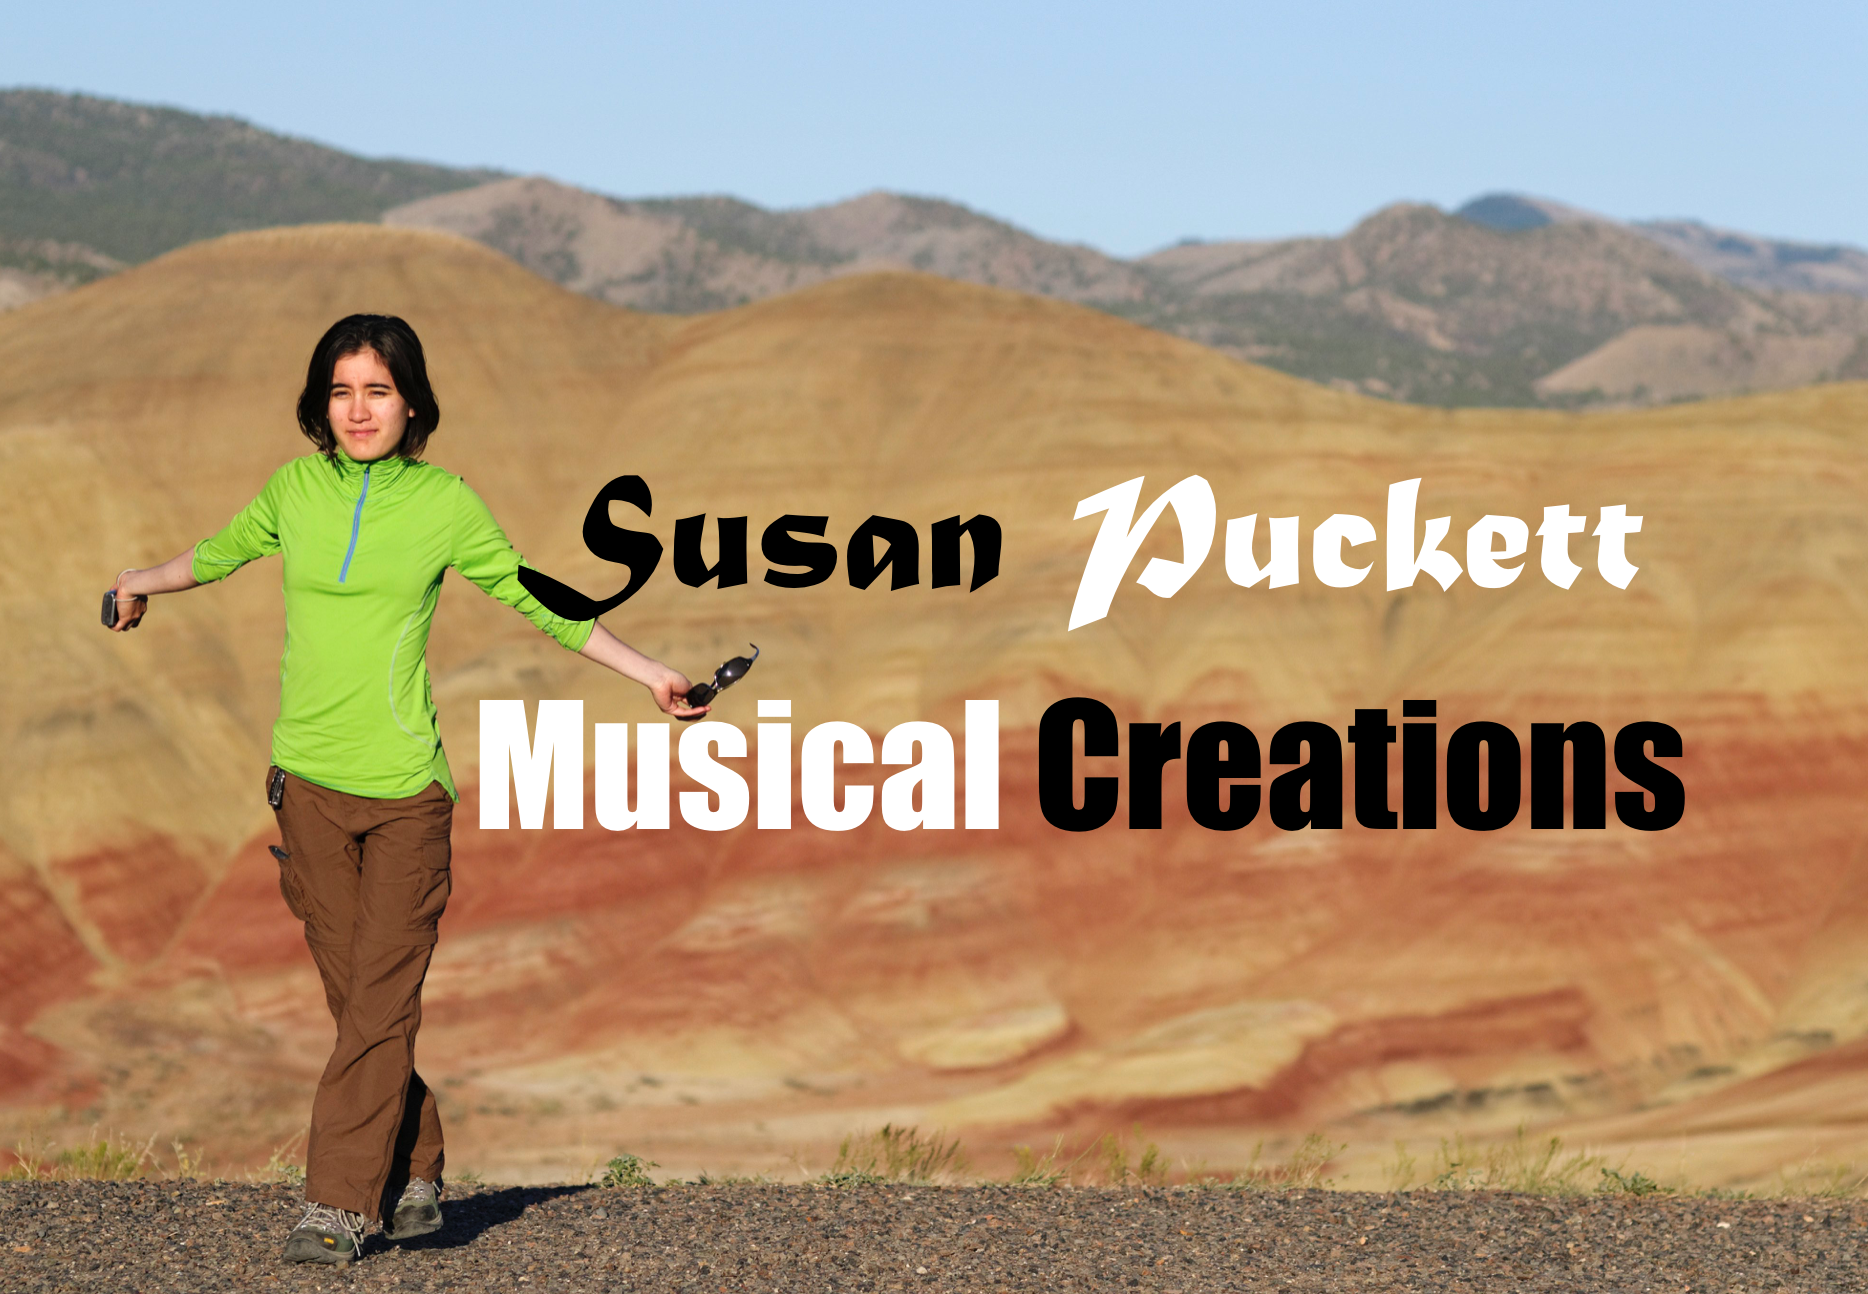
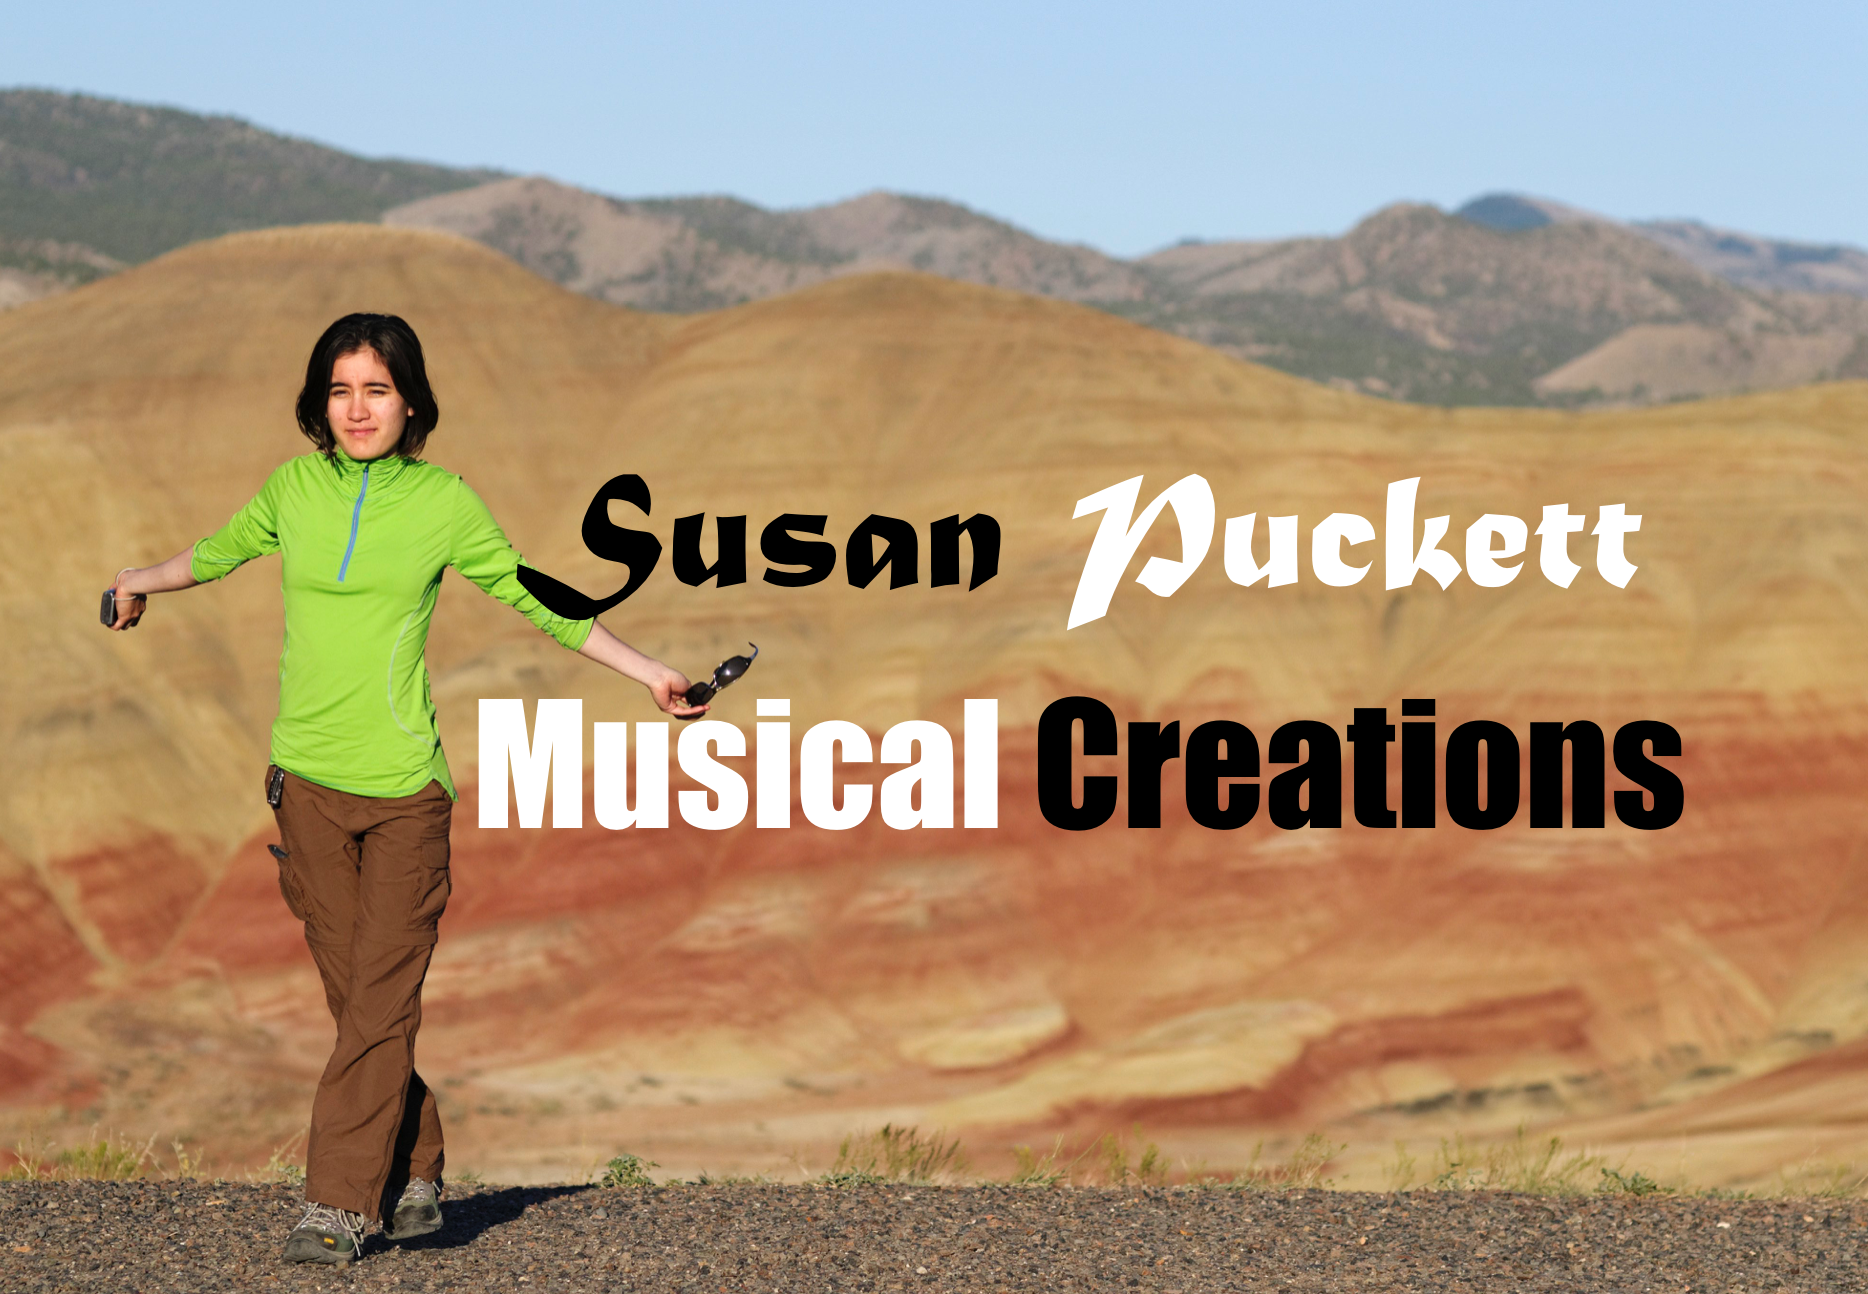
redid title image

diff --git a/clarinet.html b/clarinet.html
@@ -45,7 +45,7 @@
 				  </nav>
 			</header>
 			<body>
-			<img src=title.png width=100% alt="Susan Puckett Musical Creations">
+			<img src=titleSmall.png width=100% alt="Susan Puckett Musical Creations">
             <br><br>
 			<div class="container" style="text-align: left;">
 				<iframe src="https://audiomack.com/embed/playlist/susan-puckett/clarinet" scrolling="no" width="100%" height="400" scrollbars="no" frameborder="0"></iframe>

diff --git a/about.html b/about.html
@@ -45,7 +45,7 @@
 				  </nav>
 			</header>
 			<body>
-			<img src=title.png width=100% alt="Susan Puckett Musical Creations">
+			<img src=titleSmall.png width=100% alt="Susan Puckett Musical Creations">
             <br><br>
 			<div class="container" style="text-align: left;">
 	<h1>Who am I?</h1>

diff --git a/band.html b/band.html
@@ -45,7 +45,7 @@
 				  </nav>
 			</header>
 			<body>
-			<img src=title.png width=100% alt="Susan Puckett Musical Creations">
+			<img src=titleSmall.png width=100% alt="Susan Puckett Musical Creations">
             <br><br>
 			<div class="container" style="text-align: left;">
 

diff --git a/electronic.html b/electronic.html
@@ -45,7 +45,7 @@
 				  </nav>
 			</header>
 			<body>
-			<img src=title.png width=100% alt="Susan Puckett Musical Creations">
+			<img src=titleSmall.png width=100% alt="Susan Puckett Musical Creations">
             <br><br>
 			<div class="container" style="text-align: left;">
 
